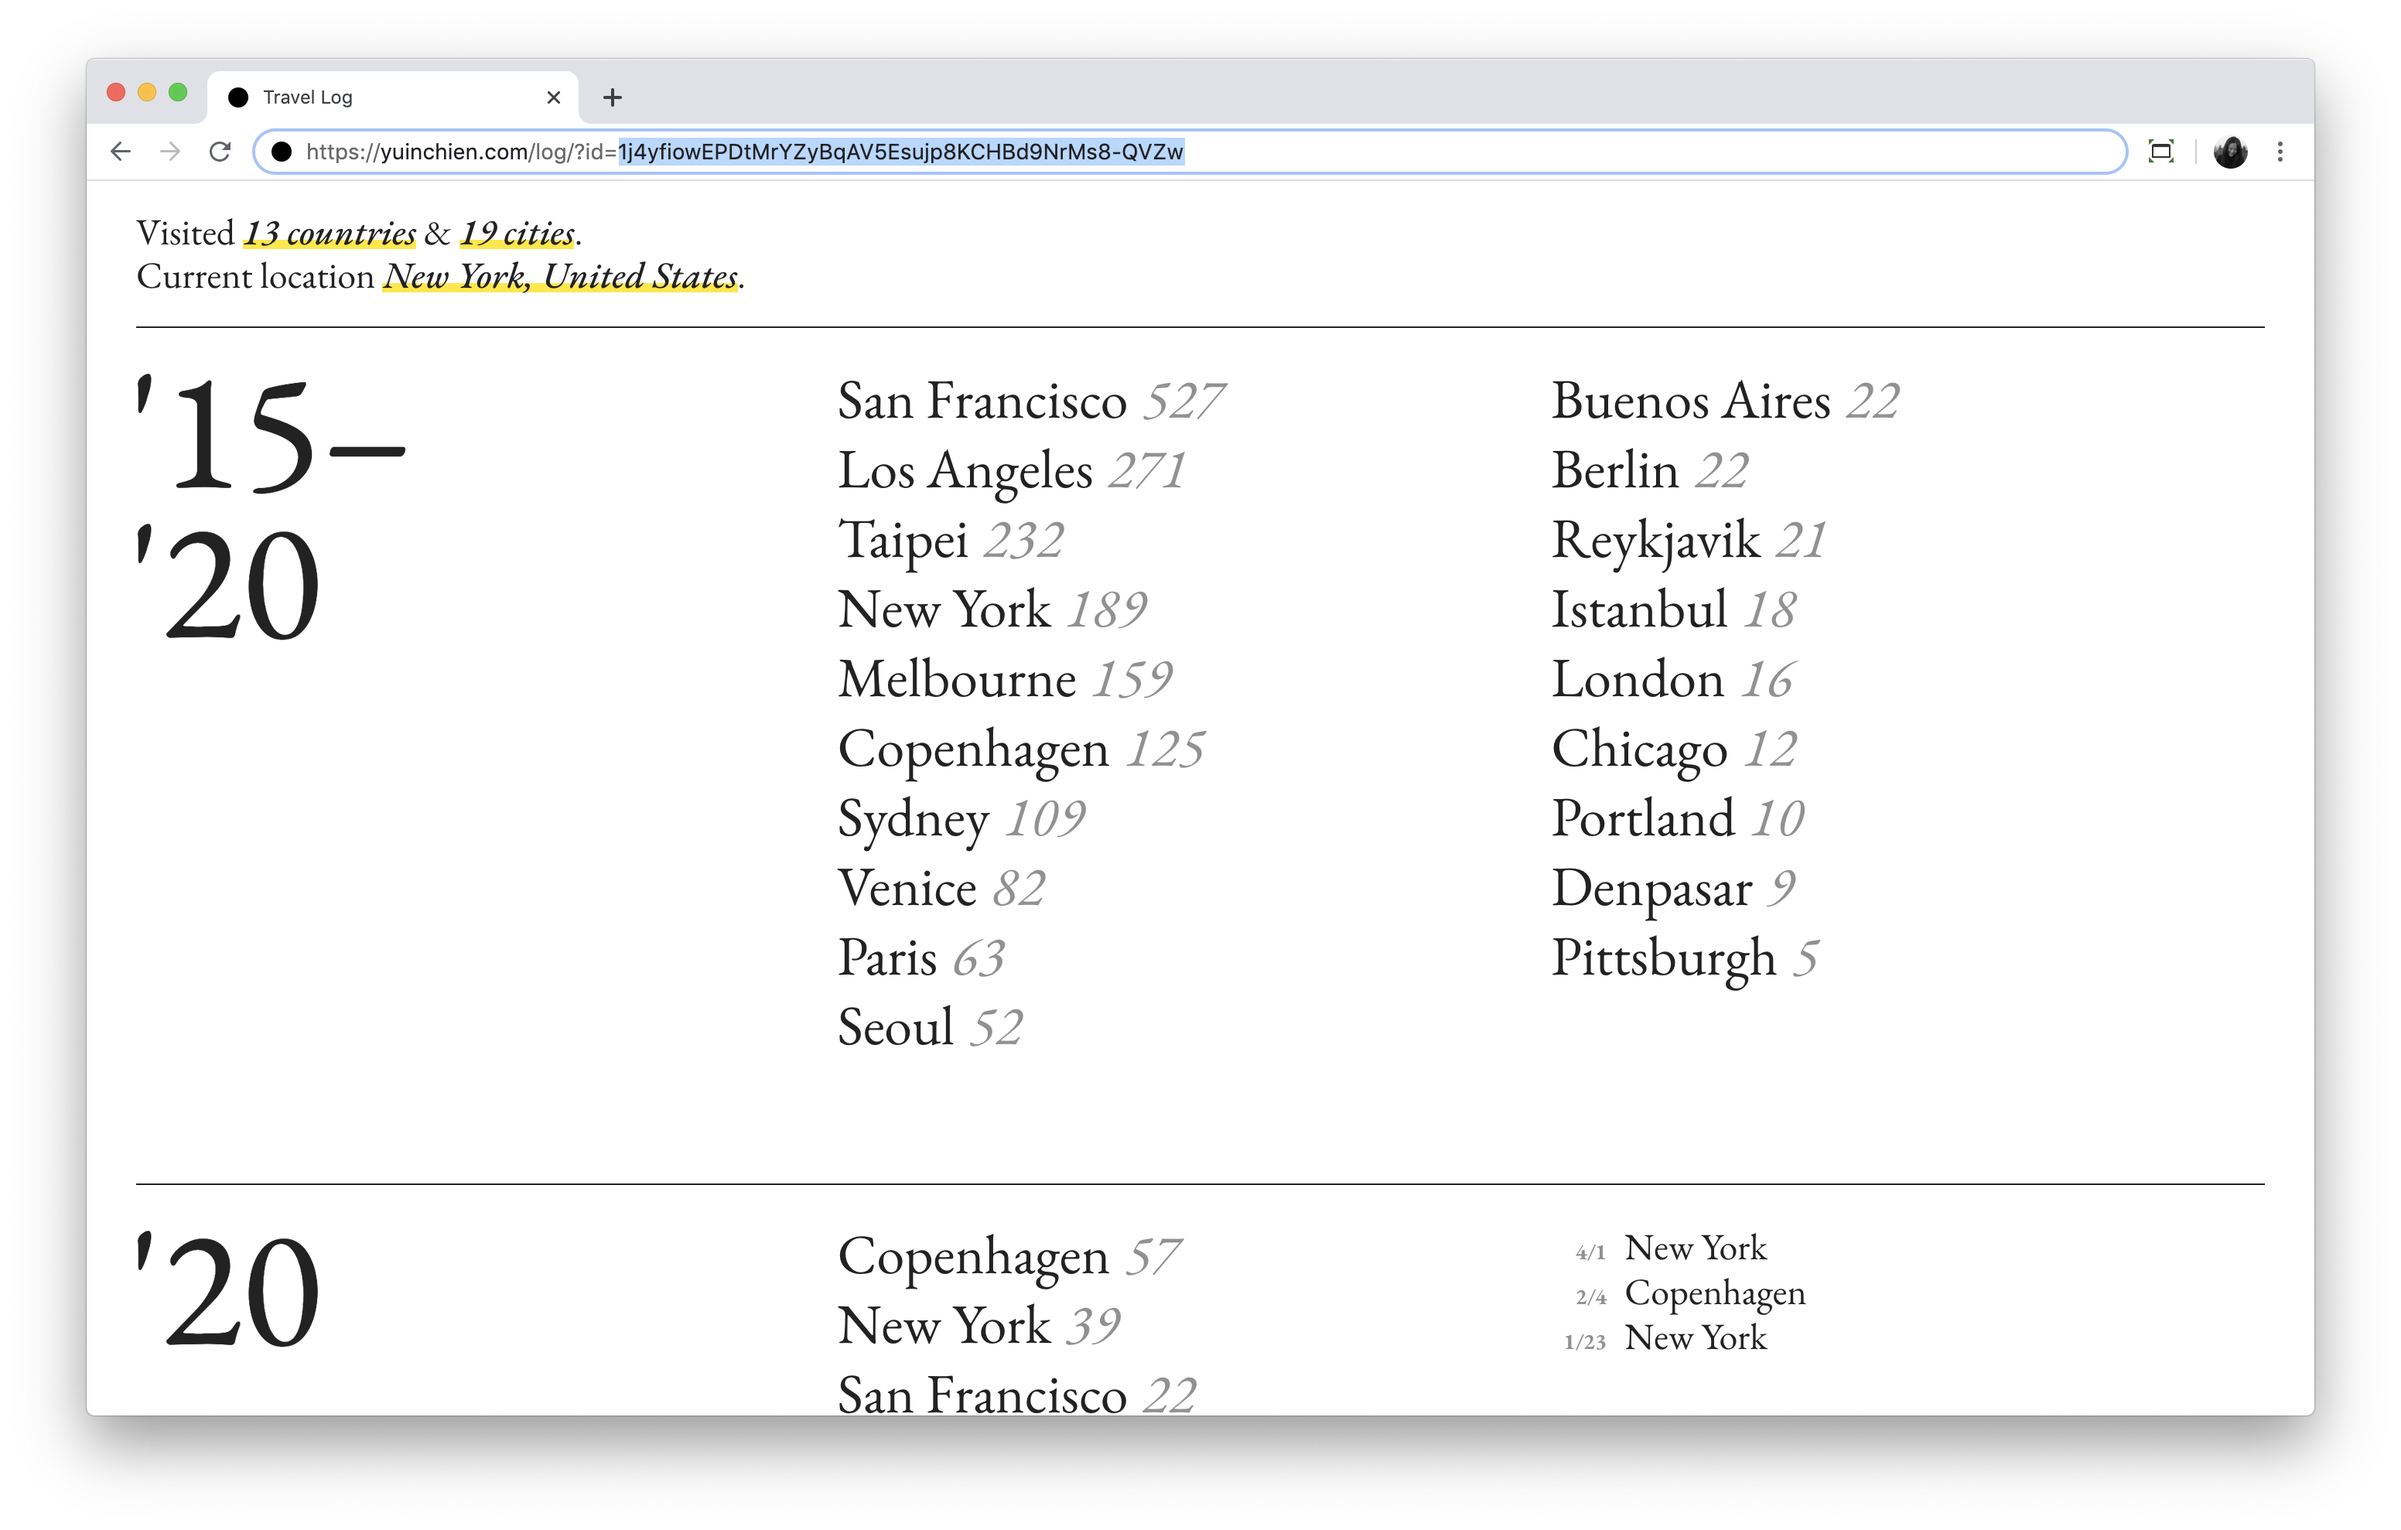
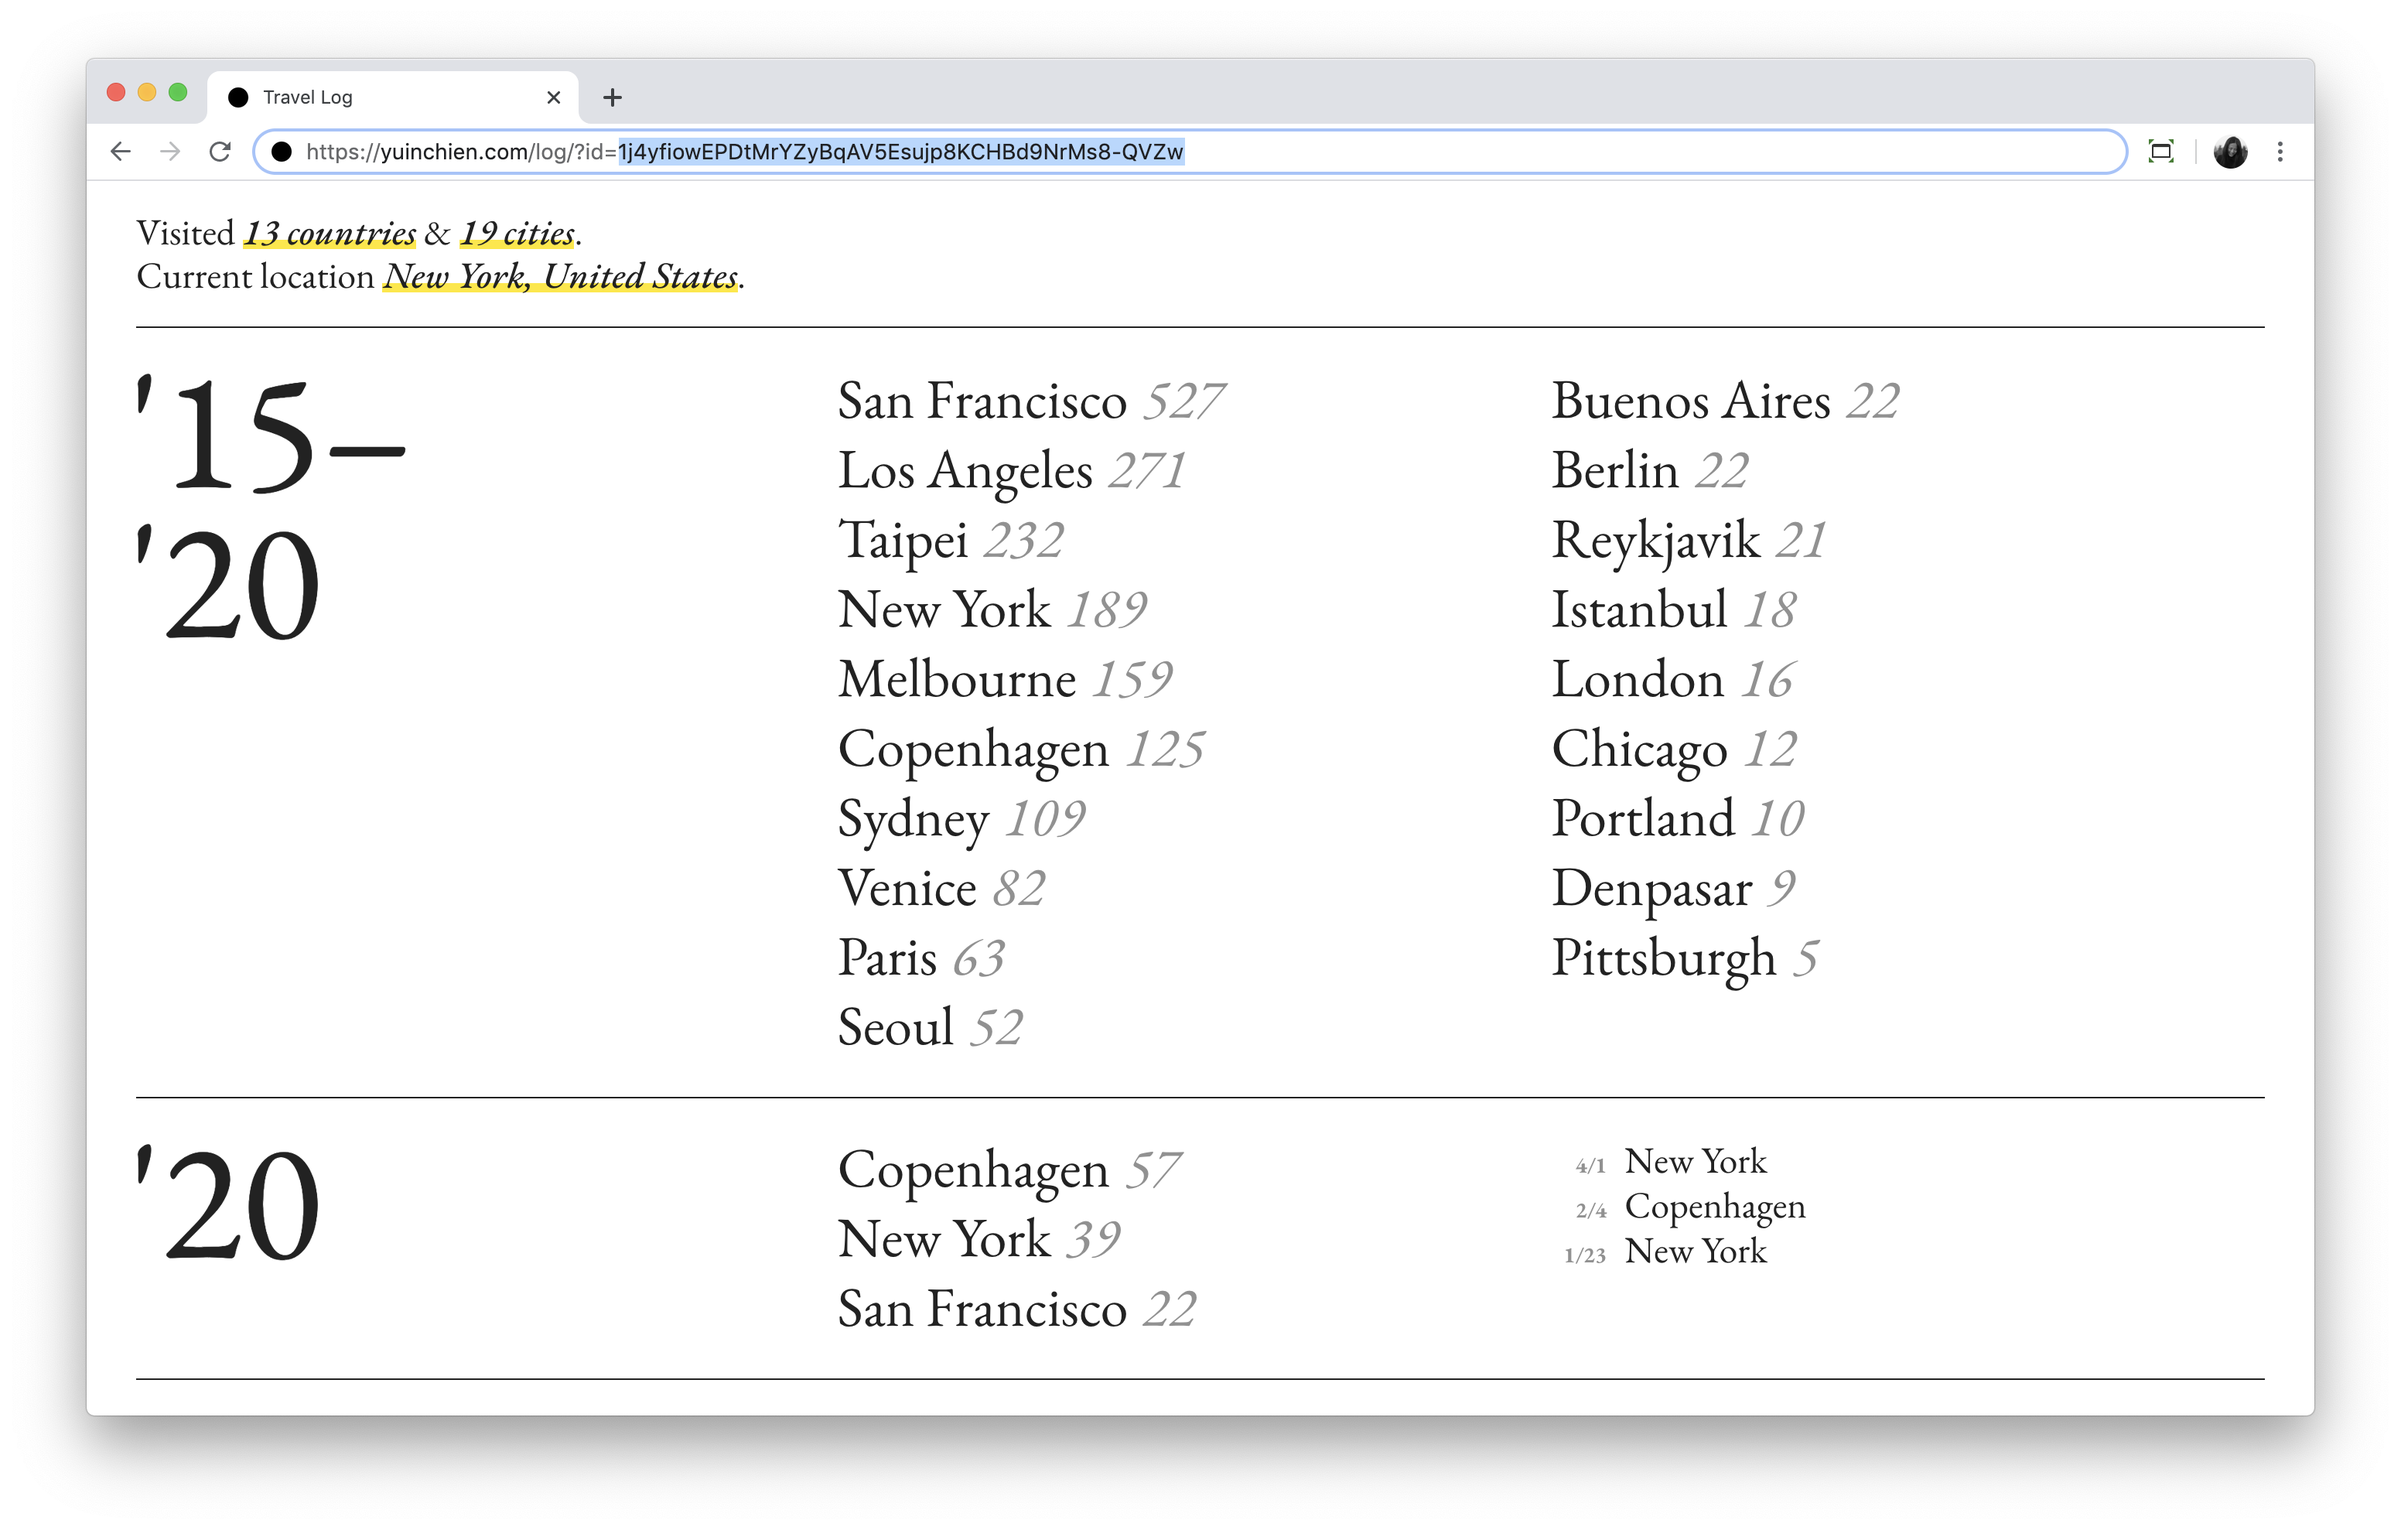
updated mobile

Changed region(s): [[0.3438, 0.7401, 0.5, 0.9252], [0.0312, 0.7401, 0.1562, 0.8943], [0.6562, 0.7401, 0.75, 0.8943]]

diff --git a/style.css b/style.css
@@ -59,7 +59,7 @@ a {
 .section {
   clear: both;
   border-top: 1px solid var(--color);
-  margin-bottom: calc(2.5 * var(--padding));
+  margin-bottom: calc(0.75 * var(--padding));
 }
 .content {
   padding-top: calc(0.7 * var(--padding));
@@ -170,18 +170,21 @@ body.loading #loader {
     column-count: 1;
   }
   .title {
-    font-size: 4.2em;
+    font-size: 5em;
+    float: none;
+    text-shadow: 0 0 8px rgba(255,255,255,1);
+  }
+  .content {
+    padding-top: 0;
+  }
+  .summary {
+    font-size: 2em;
+    line-height: 1.2em;
   }
   .row {
     flex-direction: column;
   }
   .entries {
-    margin-top: calc(var(--padding) / 4);
-  }
-}
-
-@media (max-width: 420px) {
-  .title {
-    font-size: 3.2em;
+    display: none;
   }
 }
